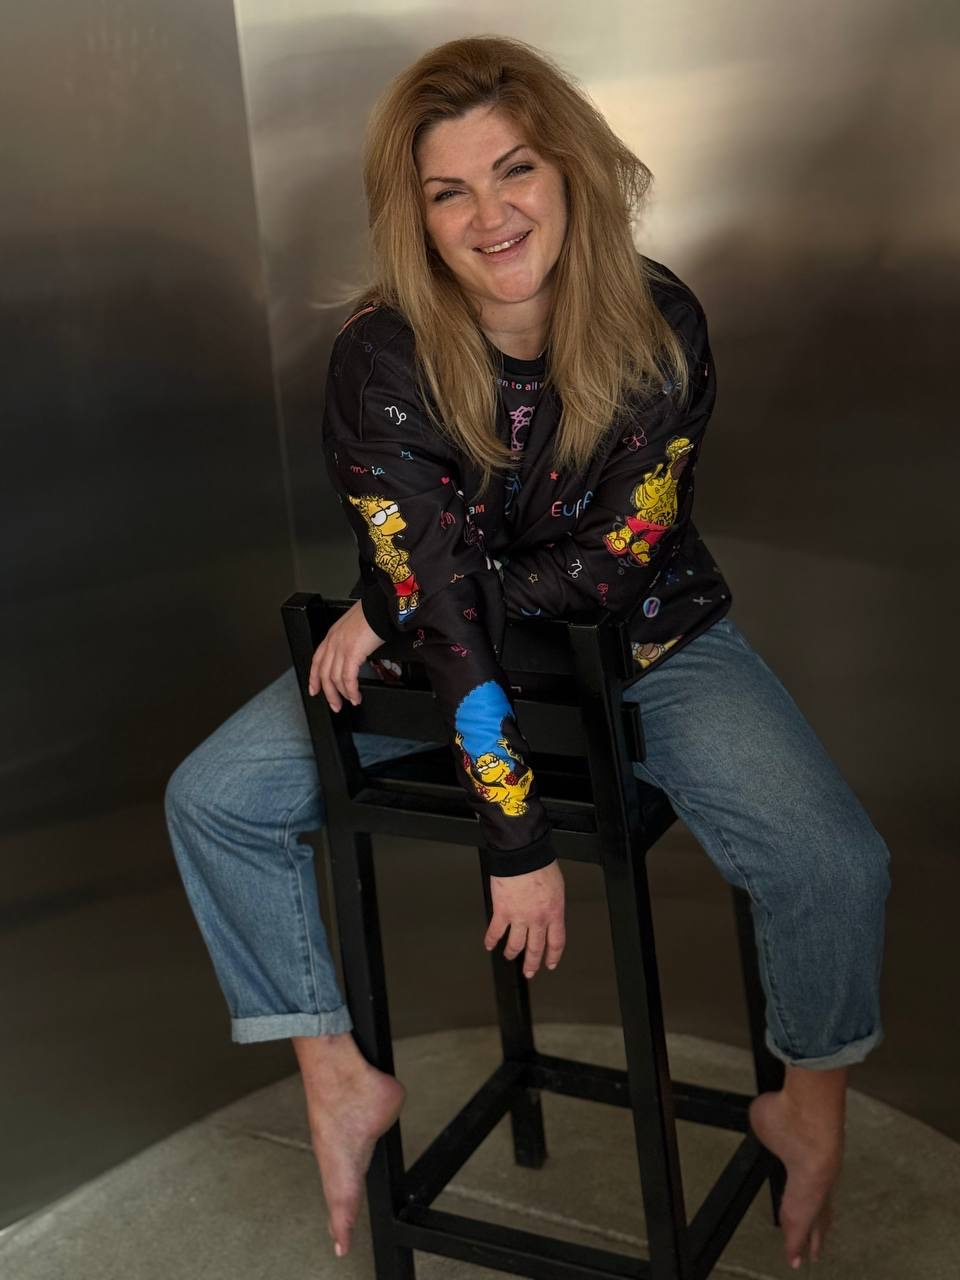
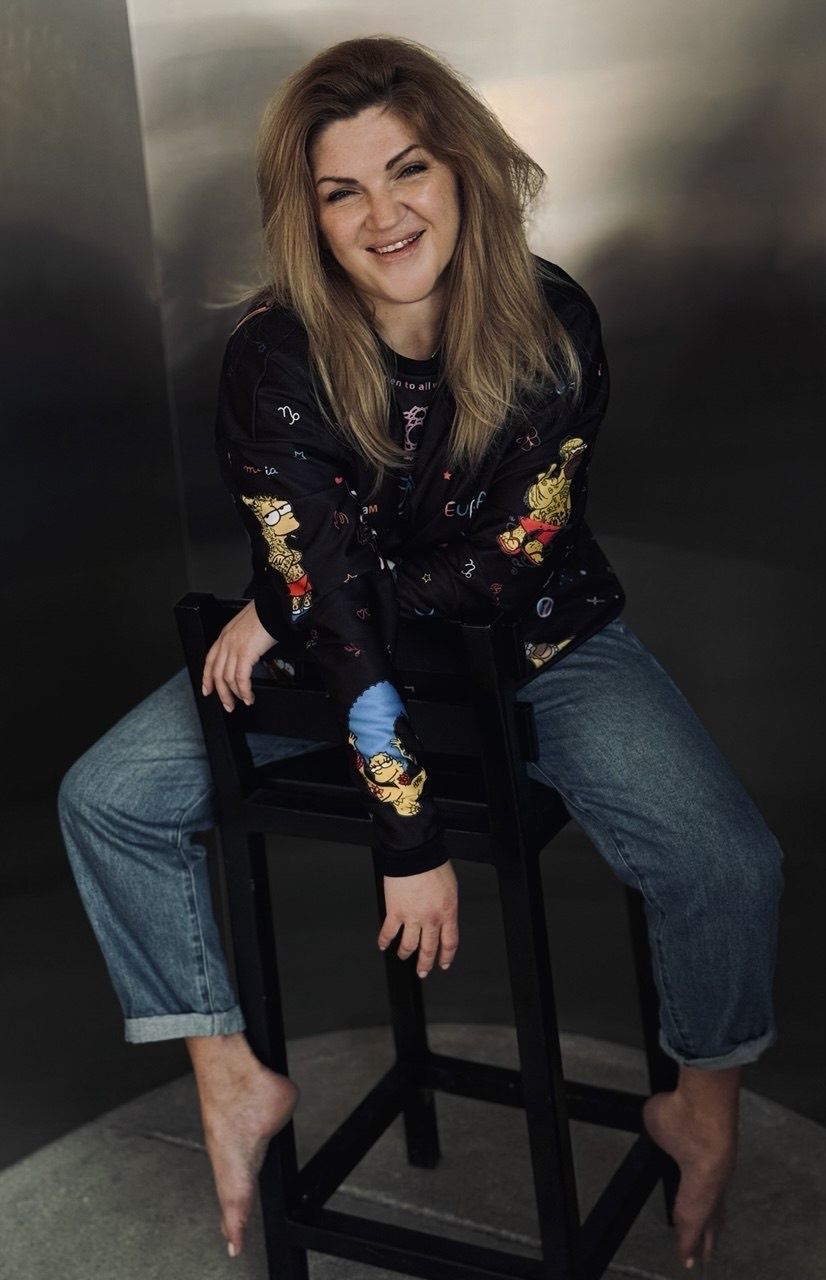
Capitalize headings and replace portraits

diff --git a/index.html b/index.html
@@ -9,7 +9,7 @@
   <link rel="preconnect" href="https://fonts.googleapis.com">
   <link rel="preconnect" href="https://fonts.gstatic.com" crossorigin>
   <link rel="stylesheet" href="https://fonts.googleapis.com/css2?family=Caveat:wght@600..700&family=Rubik:wght@400..700&display=swap">
-  <link rel="stylesheet" href="assets/site.css?v=section-headings">
+  <link rel="stylesheet" href="assets/site.css?v=portraits">
 </head>
 <body id="top">
   <a class="skip-link" href="#main">К содержанию</a>
@@ -39,7 +39,7 @@
         </div>
         <figure class="hero-art">
           <img class="hero-thread" src="assets/card-thread.svg" alt="" width="160" height="408" decoding="async">
-          <img class="hero-portrait" src="assets/polina-portrait.jpg" alt="Портрет Полины Киселёвой" width="837" height="1115" fetchpriority="high">
+          <img class="hero-portrait" src="assets/polina-portrait.jpg?v=portraits" alt="Портрет Полины Киселёвой" width="876" height="1280" fetchpriority="high">
           <figcaption>Позволь себе чувствовать! Давай говорить об этом…</figcaption>
         </figure>
       </div>
@@ -48,7 +48,7 @@
     <section class="requests painted" id="requests" tabindex="-1" aria-labelledby="requests-title">
       <div class="wrap">
         <div class="requests-intro">
-          <h2 id="requests-title" class="section-hatched lettering-title"><span class="ink-underline">КАК ТЫ СЕЙЧАС?</span></h2>
+          <h2 id="requests-title" class="section-hatched lettering-title"><span class="ink-underline">Как ты сейчас?</span></h2>
           <p id="topic-instructions">Отметь всё, что тебе откликается, и нажми «Дальше».</p>
         </div>
         <ul class="topic-list address" id="topic-choices">
@@ -160,11 +160,11 @@
     <section class="faq painted" id="faq" aria-labelledby="faq-title">
       <div class="wrap faq-layout">
         <div class="faq-intro">
-          <h2 id="faq-title" class="section-hatched">ТУТ МОГУТ БЫТЬ ОТВЕТЫ НА ТВОИ ВОПРОСЫ:</h2>
+          <h2 id="faq-title" class="section-hatched">Тут могут быть ответы на твои вопросы:</h2>
           <div class="faq-context">
             <p>Вот подборка самых частых страхов и вопросов, с которыми Ты возможно уже столкнулся (лась) перед первой сессией.</p>
             <figure class="faq-photo">
-              <img src="assets/polina-in-studio.jpg" alt="Полина Киселёва среди учебных материалов" width="914" height="1219" loading="lazy" decoding="async">
+              <img src="assets/polina-in-studio.jpg?v=portraits" alt="Полина Киселёва среди учебных материалов" width="942" height="1280" loading="lazy" decoding="async">
             </figure>
           </div>
         </div>
@@ -218,10 +218,10 @@
 
     <section class="about painted" id="about" aria-labelledby="about-title">
       <div class="wrap">
-        <h2 id="about-title" class="section-hatched">НЕМНОГО ОБО МНЕ:</h2>
+        <h2 id="about-title" class="section-hatched">Немного обо мне:</h2>
         <div class="about-layout">
           <figure class="about-photo">
-            <img src="assets/polina-about-portrait.jpg" alt="Полина Киселёва улыбается, сидя на стуле" width="960" height="1280" loading="lazy" decoding="async">
+            <img src="assets/polina-about-portrait.jpg?v=portraits" alt="Полина Киселёва улыбается, сидя на стуле" width="826" height="1280" loading="lazy" decoding="async">
           </figure>
           <div class="about-copy ink-frame">
             <p>Обучение в Московском Институте Психологии (МИП), сертификат на 50 часов практики, личные часы терапии, регулярные посещения супервизий и интервизий у опытных наставников</p>
@@ -235,7 +235,7 @@
     <div class="wrap">
       <div class="contact-layout bookend-layout">
         <div class="contact-intro bookend-copy">
-          <h2 id="contact-title">Я ВСЕГДА ЗДЕСЬ:</h2>
+          <h2 id="contact-title">Я всегда здесь:</h2>
           <p>Напиши, договоримся о первой встрече.</p>
         </div>
         <div class="contact-card">

diff --git a/assets/site.css b/assets/site.css
@@ -63,7 +63,6 @@ h1, h2, .hero-art figcaption {
 }
 
 h1, h2 {
-  text-transform: lowercase;
   text-wrap: balance;
 }
 
